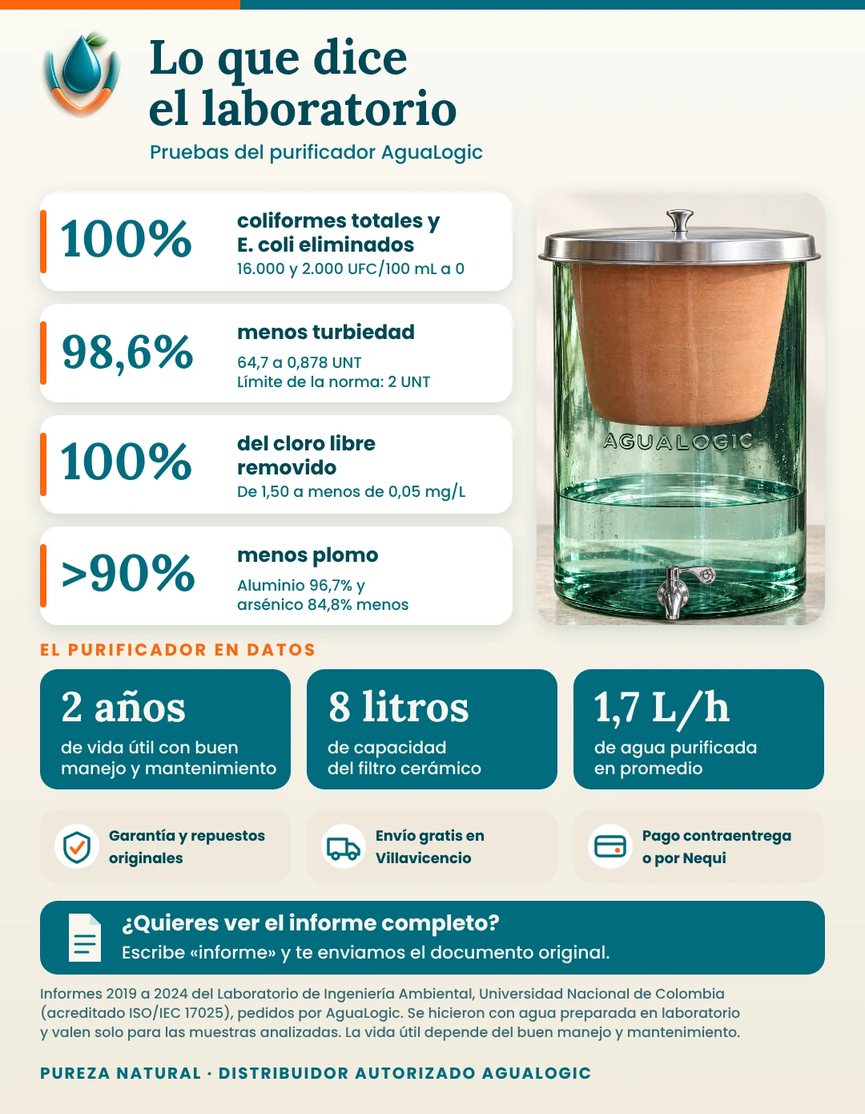
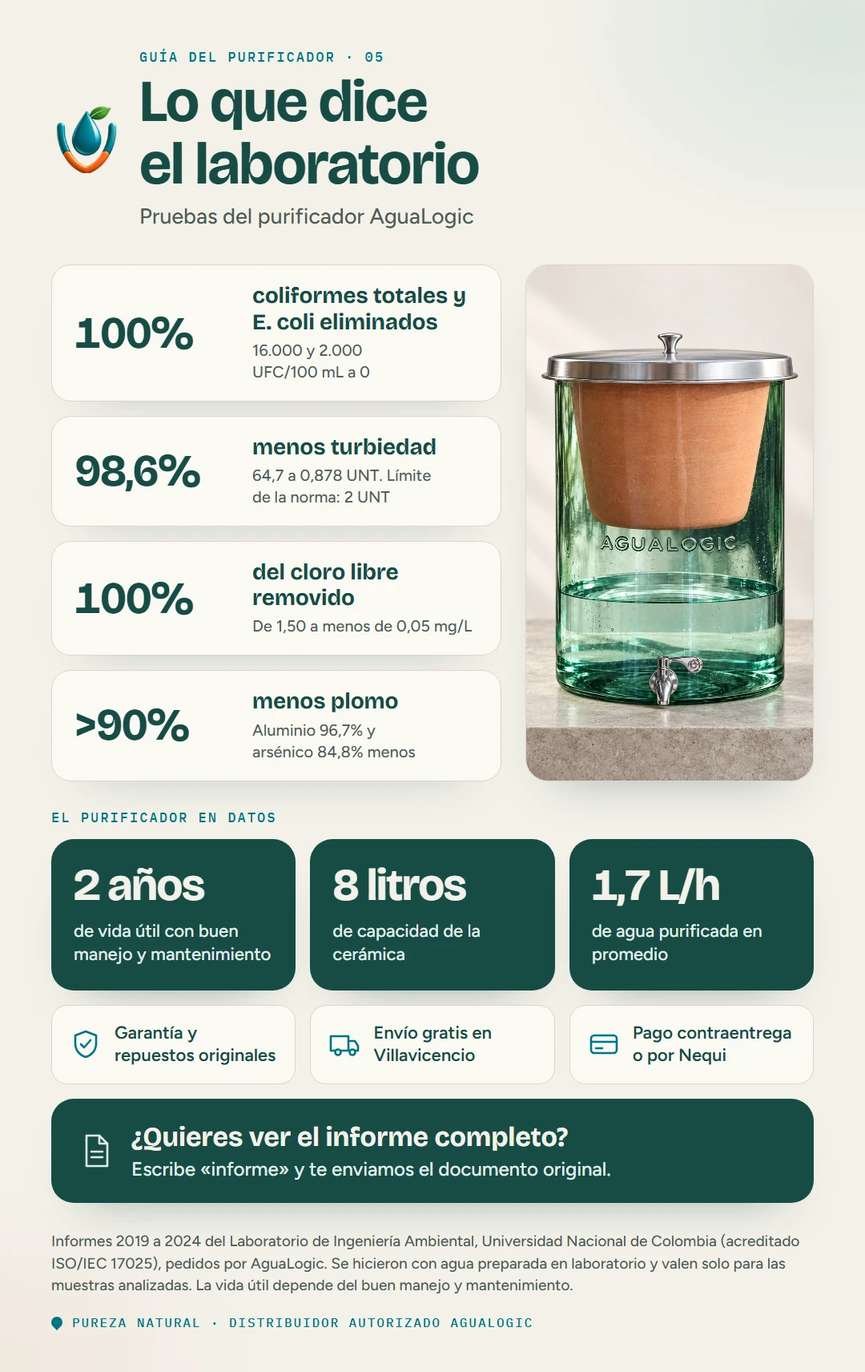
Guía: tarjetas rehechas con la marca y el agua de curación riega las matas
Las 7 tarjetas pasan a Bricolage Grotesque, Figtree e IBM Plex Mono con la
paleta oficial. Se cambia "filtro cerámico" por "cerámica" y en la curación
se explica que el agua de las 4 primeras cargas riega las plantas. Se agregan
los HTML fuente en guia/fuentes/ para poder editarlas.

diff --git a/pureza-natural/guia/index.html b/pureza-natural/guia/index.html
@@ -9,30 +9,31 @@
 <link rel="icon" href="img/logo.webp">
 <link rel="preconnect" href="https://fonts.googleapis.com">
 <link rel="preconnect" href="https://fonts.gstatic.com" crossorigin>
-<link href="https://fonts.googleapis.com/css2?family=Lora:wght@700&family=Poppins:wght@500;700&display=swap" rel="stylesheet">
+<link href="https://fonts.googleapis.com/css2?family=Bricolage+Grotesque:opsz,wght@12..96,700&family=Figtree:wght@500;600&family=IBM+Plex+Mono:wght@500&display=swap" rel="stylesheet">
 <style>
-:root{--teal:#016C7E;--dark:#014856;--orange:#FD660D;--cream:#F8F5ED;--sand:#EFE8DA}
+:root{--canvas:#F4F1E9;--panel:#FBF9F4;--deep:#174C46;--accent:#C66F45;--water:#007585;--text:#24302E;--line:#DDD6C6;--on-deep:#E3EEEA;--display:'Bricolage Grotesque',system-ui,sans-serif;--body:'Figtree',system-ui,sans-serif;--mono:'IBM Plex Mono',ui-monospace,monospace}
 *{box-sizing:border-box;margin:0;padding:0}
 html{scroll-behavior:smooth;scroll-padding-top:76px}
-body{background:linear-gradient(180deg,#FBF9F3,#F1EBDD);color:var(--dark);font-family:'Poppins',system-ui,sans-serif;font-weight:500;line-height:1.5;min-height:100vh}
-.top{height:8px;background:linear-gradient(90deg,var(--orange) 0 28%,var(--teal) 28% 100%)}
-header{max-width:760px;margin:0 auto;padding:22px 16px 10px;display:flex;align-items:center;gap:14px}
-header img{width:64px;height:auto;-webkit-mask-image:radial-gradient(closest-side,#000 72%,transparent 100%);mask-image:radial-gradient(closest-side,#000 72%,transparent 100%)}
-h1{font-family:'Lora',Georgia,serif;font-weight:700;font-size:clamp(24px,6vw,34px);line-height:1.15;color:var(--dark)}
-header p{font-size:14px;color:var(--teal)}
-nav{position:sticky;top:0;z-index:5;background:rgba(251,249,243,.95);backdrop-filter:blur(6px);border-bottom:1px solid rgba(1,72,86,.1)}
+body{background:radial-gradient(520px 380px at 96% 0,rgba(120,185,178,.22),transparent 70%),var(--canvas);background-attachment:fixed;color:var(--text);font-family:var(--body);font-weight:500;line-height:1.6;min-height:100vh;-webkit-font-smoothing:antialiased}
+.top{height:6px;background:linear-gradient(90deg,var(--accent) 0 18%,var(--deep) 18% 100%)}
+header{max-width:760px;margin:0 auto;padding:22px 16px 10px;display:flex;align-items:center;gap:16px}
+header img{width:64px;height:auto}
+h1{font-family:var(--display);font-weight:700;font-size:clamp(28px,6.4vw,40px);line-height:1.05;letter-spacing:-.02em;color:var(--deep)}
+header p{font-family:var(--mono);font-size:12px;letter-spacing:.1em;text-transform:uppercase;color:var(--water);margin-top:6px}
+nav{position:sticky;top:0;z-index:5;background:rgba(244,241,233,.9);backdrop-filter:blur(12px);-webkit-backdrop-filter:blur(12px);border-bottom:1px solid var(--line)}
 nav ul{max-width:760px;margin:0 auto;padding:10px 16px;display:flex;gap:8px;overflow-x:auto;list-style:none;scrollbar-width:none}
 nav ul::-webkit-scrollbar{display:none}
-nav a{white-space:nowrap;text-decoration:none;font-size:14px;font-weight:700;color:var(--teal);border:1.5px solid var(--teal);border-radius:999px;padding:6px 14px}
-nav a:hover,nav a:focus-visible{background:var(--teal);color:var(--cream);outline:none}
+nav a{white-space:nowrap;text-decoration:none;font-size:14px;font-weight:600;color:var(--deep);border:1.5px solid var(--deep);border-radius:999px;padding:7px 16px;min-height:36px;display:inline-flex;align-items:center;transition:background .3s,color .3s}
+nav a:hover,nav a:focus-visible{background:var(--deep);color:var(--canvas);outline:none}
+nav a:focus-visible{outline:3px solid var(--accent);outline-offset:3px}
 main{max-width:760px;margin:0 auto;padding:18px 16px 40px}
-figure{margin:0 0 28px;scroll-margin-top:76px}
-figure img{display:block;width:100%;height:auto;border-radius:18px;box-shadow:0 6px 22px rgba(1,72,86,.16);background:var(--sand)}
-.dl{display:inline-block;margin-top:10px;font-size:13px;font-weight:700;color:var(--teal);text-decoration:underline;text-underline-offset:3px}
+figure{margin:0 0 32px;scroll-margin-top:76px}
+figure img{display:block;width:100%;height:auto;border-radius:24px;box-shadow:0 30px 60px -40px rgba(23,76,70,.35);background:var(--panel);border:1px solid var(--line)}
+.dl{display:inline-block;margin-top:12px;font-size:14px;font-weight:600;color:var(--water);text-decoration:underline;text-underline-offset:3px}
+.dl:focus-visible{outline:3px solid var(--accent);outline-offset:3px;border-radius:4px}
 footer{max-width:760px;margin:0 auto;padding:0 16px 44px;text-align:center}
-.wa{display:inline-block;background:var(--teal);color:var(--cream);text-decoration:none;font-weight:700;border-radius:14px;padding:14px 24px;font-size:16px}
-.wa:hover{background:var(--dark)}
-footer small{display:block;font-size:12px;letter-spacing:.12em;color:var(--teal);font-weight:700}
+footer small{display:block;font-family:var(--mono);font-size:12px;letter-spacing:.12em;color:var(--water);font-weight:500}
+@media (prefers-reduced-motion:reduce){html{scroll-behavior:auto}nav a{transition:none}}
 </style>
 </head>
 <body>
@@ -57,31 +58,31 @@ footer small{display:block;font-size:12px;letter-spacing:.12em;color:var(--teal)
 </nav>
 <main>
   <figure id="funcionamiento">
-    <img src="img/funcionamiento.webp" width="1080" height="1340" alt="Así funciona por gravedad: echas el agua arriba, la gravedad la pasa por la cerámica y sale por la llave. 8 litros, 1,7 L/h en promedio, sin electricidad.">
+    <img src="img/funcionamiento.webp" width="1080" height="1473" alt="Así funciona por gravedad: echas el agua arriba, la gravedad la pasa por la cerámica y sale por la llave. 8 litros, 1,7 L/h en promedio, sin electricidad.">
     <a class="dl" href="img/funcionamiento.webp" download>Descargar imagen</a>
   </figure>
   <figure id="curacion">
-    <img src="img/curacion.webp" width="1080" height="1430" alt="Cómo se cura tu purificador nuevo: llénalo hasta el tope, repite 4 veces y desde la 5.ª carga ya se toma." loading="lazy">
+    <img src="img/curacion.webp" width="1080" height="1805" alt="Cómo se cura tu purificador nuevo: llénalo hasta el tope, repite 4 veces, usa esa agua para regar tus matas y desde la 5.ª carga ya se toma." loading="lazy">
     <a class="dl" href="img/curacion.webp" download>Descargar imagen</a>
   </figure>
   <figure id="mantenimiento">
-    <img src="img/mantenimiento.webp" width="1080" height="1330" alt="Cómo cuidar tu purificador: qué hacer, qué evitar y cuándo cambiar la cerámica. Vida útil de 2 años." loading="lazy">
+    <img src="img/mantenimiento.webp" width="1080" height="1733" alt="Cómo cuidar tu purificador: qué hacer, qué evitar y cuándo cambiar la cerámica. Vida útil de 2 años." loading="lazy">
     <a class="dl" href="img/mantenimiento.webp" download>Descargar imagen</a>
   </figure>
   <figure id="tamanos">
-    <img src="img/tamanos.webp" width="1080" height="1790" alt="Tamaños con medidas: mini peltre 22 por 18 cm, peltre 42 por 32,5 cm, acero inox 46 por 31 cm y vidrio aproximadamente 45 por 34,5 cm." loading="lazy">
+    <img src="img/tamanos.webp" width="1080" height="1965" alt="Tamaños con medidas: mini peltre 22 por 18 cm, peltre 42 por 32,5 cm, acero inox 46 por 31 cm y vidrio aproximadamente 45 por 34,5 cm." loading="lazy">
     <a class="dl" href="img/tamanos.webp" download>Descargar imagen</a>
   </figure>
   <figure id="laboratorio">
-    <img src="img/laboratorio.webp" width="1080" height="1390" alt="Resultados de laboratorio de la Universidad Nacional de Colombia sobre la cerámica AguaLogic, con agua preparada en laboratorio." loading="lazy">
+    <img src="img/laboratorio.webp" width="1080" height="1712" alt="Resultados de laboratorio de la Universidad Nacional de Colombia sobre la cerámica AguaLogic, con agua preparada en laboratorio." loading="lazy">
     <a class="dl" href="img/laboratorio.webp" download>Descargar imagen</a>
   </figure>
   <figure id="garantia">
-    <img src="img/garantia.webp" width="1080" height="1350" alt="Garantía AguaLogic: 4 meses en la cerámica, 4 meses en el recipiente de vidrio y 1 año en el grifo de acero inoxidable." loading="lazy">
+    <img src="img/garantia.webp" width="1080" height="1544" alt="Garantía AguaLogic: 4 meses en la cerámica, 4 meses en el recipiente de vidrio y 1 año en el grifo de acero inoxidable." loading="lazy">
     <a class="dl" href="img/garantia.webp" download>Descargar imagen</a>
   </figure>
   <figure id="envio">
-    <img src="img/envio.webp" width="1080" height="1250" alt="Envío gratis en Villavicencio, $13.000 en otros municipios. Pago contraentrega o por Nequi." loading="lazy">
+    <img src="img/envio.webp" width="1080" height="1472" alt="Envío gratis en Villavicencio, $13.000 en otros municipios. Pago contraentrega o por Nequi." loading="lazy">
     <a class="dl" href="img/envio.webp" download>Descargar imagen</a>
   </figure>
 </main>

diff --git a/pureza-natural/guia/fuentes/card.css b/pureza-natural/guia/fuentes/card.css
@@ -1,0 +1,53 @@
+:root{
+  --canvas:#F4F1E9;--panel:#FBF9F4;--deep:#174C46;--deep-2:#123D38;
+  --accent:#C66F45;--water:#007585;--water-soft:rgba(0,117,133,.14);
+  --text:#24302E;--text-2:#4E5D58;--line:#DDD6C6;--on-deep:#E3EEEA;--on-deep-2:#B9D0C9;
+  --display:'Bricolage Grotesque',system-ui,sans-serif;--body:'Figtree',system-ui,sans-serif;--mono:'IBM Plex Mono',ui-monospace,monospace;
+}
+*{box-sizing:border-box;margin:0;padding:0}
+html,body{background:var(--canvas)}
+body{width:1080px;font-family:var(--body);font-weight:500;color:var(--text);-webkit-font-smoothing:antialiased}
+.card{position:relative;width:1080px;padding:60px 64px 52px;overflow:hidden;
+  background:
+    radial-gradient(520px 380px at 96% 2%,rgba(120,185,178,.22),transparent 70%),
+    radial-gradient(460px 340px at 0% 100%,rgba(198,111,69,.07),transparent 70%),
+    var(--canvas)}
+.card>*{position:relative}
+.head{display:flex;align-items:center;gap:26px;margin-bottom:44px}
+.head img{width:84px;height:auto;flex:none}
+.kicker{font-family:var(--mono);font-weight:500;font-size:17px;letter-spacing:.12em;text-transform:uppercase;color:var(--water)}
+h1{font-family:var(--display);font-weight:700;font-size:74px;line-height:1.05;letter-spacing:-.02em;color:var(--deep);margin-top:6px}
+.sub{font-size:27px;color:var(--text-2);margin-top:10px;font-weight:500}
+h3{font-family:var(--display);font-weight:700;letter-spacing:-.01em;color:var(--deep);line-height:1.1}
+.label{font-family:var(--mono);font-weight:500;font-size:17px;letter-spacing:.12em;text-transform:uppercase;color:var(--water);margin:34px 0 16px}
+.photo{border-radius:28px;overflow:hidden;box-shadow:0 30px 60px -40px rgba(23,76,70,.45);border:1px solid var(--line);background:var(--panel)}
+.photo img{display:block;width:100%;height:100%;object-fit:cover}
+.split{display:grid;grid-template-columns:1fr 400px;gap:30px;align-items:stretch}
+.stack{display:flex;flex-direction:column;gap:18px}
+.steps{display:flex;flex-direction:column;justify-content:space-between;gap:30px}
+.step{display:grid;grid-template-columns:54px 1fr;gap:20px;align-items:start}
+.num{width:54px;height:54px;border-radius:50%;background:var(--deep);color:var(--on-deep);font-family:var(--mono);font-weight:500;font-size:23px;display:grid;place-items:center}
+.step h3{font-size:36px}
+.step p{font-size:24px;line-height:1.4;color:var(--text-2);margin-top:8px}
+.tiles{display:grid;grid-template-columns:repeat(3,1fr);gap:18px}
+.tile{background:var(--deep);color:var(--on-deep);border-radius:28px;padding:30px 28px;box-shadow:0 30px 60px -44px rgba(23,76,70,.6)}
+.tile b{display:block;font-family:var(--display);font-weight:700;font-size:56px;line-height:1;letter-spacing:-.03em;color:var(--canvas);font-variant-numeric:tabular-nums}
+.tile span{display:block;font-size:22px;line-height:1.35;margin-top:14px;color:var(--on-deep)}
+.note{background:var(--panel);border:1px solid var(--line);border-left:5px solid var(--water);border-radius:20px;padding:24px 28px;font-size:25px;line-height:1.4;color:var(--text);font-weight:600;margin-top:18px}
+.note.key{border-left-color:var(--accent)}
+.note.plain{font-weight:500}
+.leaf{display:flex;gap:20px;align-items:flex-start}
+.leaf svg{flex:none;width:44px;height:44px;margin-top:2px}
+.legal{font-size:19px;line-height:1.45;color:var(--text-2);margin-top:34px;font-weight:500}
+.foot{margin-top:22px;font-family:var(--mono);font-weight:500;font-size:16px;letter-spacing:.12em;text-transform:uppercase;color:var(--water);display:flex;align-items:center;gap:12px}
+.foot i{width:14px;height:14px;background:var(--water);border-radius:50% 50% 50% 0;transform:rotate(-45deg);flex:none}
+.statrow{display:grid;grid-template-columns:230px 1fr;gap:22px;align-items:center;background:var(--panel);border:1px solid var(--line);border-radius:24px;padding:22px 28px;box-shadow:0 30px 60px -48px rgba(23,76,70,.4)}
+.statrow .big{font-family:var(--display);font-weight:700;font-size:56px;line-height:1;letter-spacing:-.03em;color:var(--deep);font-variant-numeric:tabular-nums}
+.statrow strong{display:block;font-family:var(--display);font-weight:700;font-size:28px;line-height:1.15;color:var(--deep)}
+.statrow small{text-wrap:balance;display:block;font-size:20px;line-height:1.35;color:var(--text-2);margin-top:6px;font-weight:500}
+.chips{display:grid;grid-template-columns:repeat(3,1fr);gap:18px}
+.chip{display:flex;gap:16px;align-items:center;background:var(--panel);border:1px solid var(--line);border-radius:20px;padding:20px 22px;font-size:22px;line-height:1.3;font-weight:600;color:var(--deep)}
+.chip svg{flex:none;width:40px;height:40px}
+.list{display:flex;flex-direction:column;gap:16px}
+.li{display:grid;grid-template-columns:38px 1fr;gap:14px;align-items:start;font-size:24px;line-height:1.35;font-weight:600;color:var(--text)}
+.li svg{width:34px;height:34px;margin-top:1px}

diff --git a/pureza-natural/guia/fuentes/tamanos.html b/pureza-natural/guia/fuentes/tamanos.html
@@ -1,0 +1,42 @@
+<!doctype html>
+<html lang="es"><head><meta charset="utf-8"><title>Tamaños</title>
+<link rel="preconnect" href="https://fonts.googleapis.com"><link rel="preconnect" href="https://fonts.gstatic.com" crossorigin>
+<link href="https://fonts.googleapis.com/css2?family=Bricolage+Grotesque:opsz,wght@12..96,700&family=Figtree:wght@500;600&family=IBM+Plex+Mono:wght@500&display=swap" rel="stylesheet">
+<link rel="stylesheet" href="card.css">
+<style>
+.grid{display:grid;grid-template-columns:1fr 1fr;gap:22px}
+.model{background:var(--panel);border:1px solid var(--line);border-radius:28px;padding:28px 28px 22px;box-shadow:0 30px 60px -48px rgba(23,76,70,.4)}
+.model h3{font-size:38px}
+.model .spec{font-family:var(--mono);font-weight:500;font-size:16px;letter-spacing:.1em;text-transform:uppercase;color:var(--water);margin-top:8px}
+.fig{display:grid;grid-template-columns:1fr auto;grid-template-rows:380px auto;gap:0 14px;margin-top:14px}
+.pic{display:flex;align-items:flex-end;justify-content:center}
+.pic img{display:block;mix-blend-mode:multiply}
+.vd{display:flex;flex-direction:column;align-items:center;justify-content:center;position:relative;height:100%;width:36px;align-self:end}
+.vd i{position:absolute;left:50%;top:0;bottom:0;width:0;border-left:2px solid var(--deep)}
+.vd i:before,.vd i:after{content:"";position:absolute;left:-7px;width:12px;border-top:2px solid var(--deep)}
+.vd i:before{top:0}.vd i:after{bottom:0}
+.vd b{position:relative;background:var(--panel);padding:8px 0;writing-mode:vertical-rl;transform:rotate(180deg);font-family:var(--display);font-weight:700;font-size:24px;color:var(--deep)}
+.hd{grid-column:1;display:flex;align-items:center;justify-content:center;position:relative;height:50px;margin-top:6px}
+.hd i{position:absolute;left:8%;right:8%;top:50%;border-top:2px solid var(--deep)}
+.hd i:before,.hd i:after{content:"";position:absolute;top:-7px;height:12px;border-left:2px solid var(--deep)}
+.hd i:before{left:0}.hd i:after{right:0}
+.hd b{position:relative;background:var(--panel);padding:0 12px;font-family:var(--display);font-weight:700;font-size:24px;color:var(--deep)}
+</style></head>
+<body><div class="card" id="card">
+  <div class="head"><img src="fotos/logo-mark.png" alt="">
+    <div><div class="kicker">Guía del purificador · 04</div><h1>Elige el tamaño<br>para tu hogar</h1><p class="sub">Medidas reales, a la misma escala</p></div></div>
+  <div class="grid">
+    <div class="model"><h3>Mini peltre</h3><div class="spec">5,5 L · 3,4 kg</div>
+      <div class="fig"><div class="pic"><img src="fotos/m-mini.png" style="height:165px" alt="Mini peltre"></div><div class="vd" style="height:165px"><i></i><b>22 cm</b></div><div class="hd"><i></i><b>18 cm</b></div></div></div>
+    <div class="model"><h3>Peltre</h3><div class="spec">20 L · 7 kg</div>
+      <div class="fig"><div class="pic"><img src="fotos/m-peltre.png" style="height:315px" alt="Peltre"></div><div class="vd" style="height:315px"><i></i><b>42 cm</b></div><div class="hd"><i></i><b>32,5 cm</b></div></div></div>
+    <div class="model"><h3>Acero inox</h3><div class="spec">20 L · 6,5 kg</div>
+      <div class="fig"><div class="pic"><img src="fotos/m-acero.png" style="height:345px" alt="Acero inoxidable"></div><div class="vd" style="height:345px"><i></i><b>46 cm</b></div><div class="hd"><i></i><b>31 cm</b></div></div></div>
+    <div class="model"><h3>Vidrio</h3><div class="spec">20 L · ≈14 kg</div>
+      <div class="fig"><div class="pic"><img src="fotos/m-vidrio.png" style="height:337px" alt="Vidrio"></div><div class="vd" style="height:337px"><i></i><b>45 cm</b></div><div class="hd"><i></i><b>34,5 cm</b></div></div></div>
+  </div>
+  <div class="note plain" style="margin-top:28px">Antes de decidir, mide tu mesón: necesitas el diámetro de la base y el alto libre del modelo (hasta 46 cm) para llenarlo y servir.</div>
+  <div class="note key">El vidrio es soplado a mano: cada pieza es única y pide más cuidado. No lo pongas boca abajo ni uses agua caliente.</div>
+  <p class="legal">Medidas aproximadas según las fichas de AguaLogic (alto y diámetro). Incluyen tapa. Todos incluyen cerámica y grifo de acero inoxidable. La escala de las fotos es aproximada.</p>
+  <div class="foot"><i></i>Pureza Natural · Distribuidor autorizado AguaLogic</div>
+</div></body></html>

diff --git a/pureza-natural/guia/fuentes/laboratorio.html b/pureza-natural/guia/fuentes/laboratorio.html
@@ -1,0 +1,35 @@
+<!doctype html>
+<html lang="es"><head><meta charset="utf-8"><title>Laboratorio</title>
+<link rel="preconnect" href="https://fonts.googleapis.com"><link rel="preconnect" href="https://fonts.gstatic.com" crossorigin>
+<link href="https://fonts.googleapis.com/css2?family=Bricolage+Grotesque:opsz,wght@12..96,700&family=Figtree:wght@500;600&family=IBM+Plex+Mono:wght@500&display=swap" rel="stylesheet">
+<link rel="stylesheet" href="card.css"></head>
+<body><div class="card" id="card">
+  <div class="head"><img src="fotos/logo-mark.png" alt="">
+    <div><div class="kicker">Guía del purificador · 05</div><h1>Lo que dice<br>el laboratorio</h1><p class="sub">Pruebas del purificador AguaLogic</p></div></div>
+  <div class="split" style="grid-template-columns:1fr 360px">
+    <div class="stack">
+      <div class="statrow" style="grid-template-columns:200px 1fr"><div class="big">100%</div><div><strong>coliformes totales y E. coli eliminados</strong><small>16.000 y 2.000 UFC/100 mL a 0</small></div></div>
+      <div class="statrow" style="grid-template-columns:200px 1fr"><div class="big">98,6%</div><div><strong>menos turbiedad</strong><small>64,7 a 0,878 UNT. Límite de la norma: 2 UNT</small></div></div>
+      <div class="statrow" style="grid-template-columns:200px 1fr"><div class="big">100%</div><div><strong>del cloro libre removido</strong><small>De 1,50 a menos de 0,05 mg/L</small></div></div>
+      <div class="statrow" style="grid-template-columns:200px 1fr"><div class="big">&gt;90%</div><div><strong>menos plomo</strong><small>Aluminio 96,7% y arsénico 84,8% menos</small></div></div>
+    </div>
+    <div class="photo"><img src="fotos/armado.jpg" alt="Purificador de vidrio AguaLogic" style="object-position:50% 55%"></div>
+  </div>
+  <div class="label">El purificador en datos</div>
+  <div class="tiles">
+    <div class="tile"><b>2 años</b><span>de vida útil con buen manejo y mantenimiento</span></div>
+    <div class="tile"><b>8 litros</b><span>de capacidad de la cerámica</span></div>
+    <div class="tile"><b>1,7 L/h</b><span>de agua purificada en promedio</span></div>
+  </div>
+  <div class="chips" style="margin-top:18px">
+    <div class="chip"><svg viewBox="0 0 40 40" fill="none" stroke="#007585" stroke-width="2.6" stroke-linecap="round" stroke-linejoin="round"><path d="M20 4l13 5v10c0 9-6 15-13 17C13 34 7 28 7 19V9z"/><path d="M14 20l4 4 8-9"/></svg>Garantía y repuestos originales</div>
+    <div class="chip"><svg viewBox="0 0 40 40" fill="none" stroke="#007585" stroke-width="2.6" stroke-linecap="round" stroke-linejoin="round"><path d="M3 10h22v18H3zM25 16h8l4 6v6H25z"/><circle cx="12" cy="30" r="3.5" fill="#FBF9F4"/><circle cx="30" cy="30" r="3.5" fill="#FBF9F4"/></svg>Envío gratis en Villavicencio</div>
+    <div class="chip"><svg viewBox="0 0 40 40" fill="none" stroke="#007585" stroke-width="2.6" stroke-linecap="round" stroke-linejoin="round"><rect x="4" y="9" width="32" height="22" rx="4"/><path d="M4 17h32M10 25h8"/></svg>Pago contraentrega o por Nequi</div>
+  </div>
+  <div class="tile" style="margin-top:18px;display:flex;gap:22px;align-items:center;padding:28px 32px">
+    <svg width="46" height="46" viewBox="0 0 46 46" fill="none" stroke="#E3EEEA" stroke-width="2.6" stroke-linecap="round" stroke-linejoin="round" style="flex:none"><path d="M12 4h16l10 10v28H12z"/><path d="M28 4v10h10M18 24h14M18 31h14"/></svg>
+    <div><div style="font-family:var(--display);font-weight:700;font-size:34px;color:var(--canvas);line-height:1.15">¿Quieres ver el informe completo?</div><div style="font-size:24px;margin-top:6px">Escribe «informe» y te enviamos el documento original.</div></div>
+  </div>
+  <p class="legal">Informes 2019 a 2024 del Laboratorio de Ingeniería Ambiental, Universidad Nacional de Colombia (acreditado ISO/IEC 17025), pedidos por AguaLogic. Se hicieron con agua preparada en laboratorio y valen solo para las muestras analizadas. La vida útil depende del buen manejo y mantenimiento.</p>
+  <div class="foot"><i></i>Pureza Natural · Distribuidor autorizado AguaLogic</div>
+</div></body></html>

diff --git a/pureza-natural/guia/fuentes/mantenimiento.html b/pureza-natural/guia/fuentes/mantenimiento.html
@@ -1,0 +1,37 @@
+<!doctype html>
+<html lang="es"><head><meta charset="utf-8"><title>Mantenimiento</title>
+<link rel="preconnect" href="https://fonts.googleapis.com"><link rel="preconnect" href="https://fonts.gstatic.com" crossorigin>
+<link href="https://fonts.googleapis.com/css2?family=Bricolage+Grotesque:opsz,wght@12..96,700&family=Figtree:wght@500;600&family=IBM+Plex+Mono:wght@500&display=swap" rel="stylesheet">
+<link rel="stylesheet" href="card.css"></head>
+<body><div class="card" id="card">
+  <div class="head"><img src="fotos/logo-mark.png" alt="">
+    <div><div class="kicker">Guía del purificador · 03</div><h1>Cómo cuidar<br>tu purificador</h1><p class="sub">Mantenimiento y repuesto</p></div></div>
+  <div class="split">
+    <div>
+      <div class="label" style="margin-top:0">Hazlo</div>
+      <div class="list">
+        <div class="li"><svg viewBox="0 0 34 34" fill="none"><circle cx="17" cy="17" r="16" fill="#007585"/><path d="M9.5 17.5l5 5 10-11" stroke="#F4F1E9" stroke-width="3" stroke-linecap="round" stroke-linejoin="round"/></svg><div>Lava la cerámica solo con agua y un cepillo suave nuevo.</div></div>
+        <div class="li"><svg viewBox="0 0 34 34" fill="none"><circle cx="17" cy="17" r="16" fill="#007585"/><path d="M9.5 17.5l5 5 10-11" stroke="#F4F1E9" stroke-width="3" stroke-linecap="round" stroke-linejoin="round"/></svg><div>Lávate las manos antes de llenarlo o limpiarlo.</div></div>
+        <div class="li"><svg viewBox="0 0 34 34" fill="none"><circle cx="17" cy="17" r="16" fill="#007585"/><path d="M9.5 17.5l5 5 10-11" stroke="#F4F1E9" stroke-width="3" stroke-linecap="round" stroke-linejoin="round"/></svg><div>Mantén la cerámica llena: el peso del agua abre los poros.</div></div>
+      </div>
+      <div class="label">Evítalo</div>
+      <div class="list">
+        <div class="li"><svg viewBox="0 0 34 34" fill="none"><circle cx="17" cy="17" r="15" stroke="#174C46" stroke-width="2.4"/><path d="M11 11l12 12M23 11L11 23" stroke="#174C46" stroke-width="2.8" stroke-linecap="round"/></svg><div>Jabón, cloro o químicos.</div></div>
+        <div class="li"><svg viewBox="0 0 34 34" fill="none"><circle cx="17" cy="17" r="15" stroke="#174C46" stroke-width="2.4"/><path d="M11 11l12 12M23 11L11 23" stroke="#174C46" stroke-width="2.8" stroke-linecap="round"/></svg><div>Agua caliente.</div></div>
+        <div class="li"><svg viewBox="0 0 34 34" fill="none"><circle cx="17" cy="17" r="15" stroke="#174C46" stroke-width="2.4"/><path d="M11 11l12 12M23 11L11 23" stroke="#174C46" stroke-width="2.8" stroke-linecap="round"/></svg><div>El recipiente de vidrio boca abajo.</div></div>
+        <div class="li"><svg viewBox="0 0 34 34" fill="none"><circle cx="17" cy="17" r="15" stroke="#174C46" stroke-width="2.4"/><path d="M11 11l12 12M23 11L11 23" stroke="#174C46" stroke-width="2.8" stroke-linecap="round"/></svg><div>Dejar la cerámica seca y al sol.</div></div>
+      </div>
+    </div>
+    <div class="photo" style="height:640px"><img src="fotos/despiece.jpg" alt="Cerámica y recipiente de vidrio del purificador"></div>
+  </div>
+  <div class="note plain" style="margin-top:30px">Si el agua trae tierra, pásala por un paño limpio. Si sabe a cloro, déjala reposar 2 horas antes de echarla.</div>
+  <div class="label">Cambio de la cerámica</div>
+  <div class="tiles">
+    <div class="tile"><b>2 años</b><span>de vida útil de la cerámica</span></div>
+    <div class="tile"><b>$185.000</b><span>repuesto cerámico de 20 litros</span></div>
+    <div class="tile"><b>Señal</b><span>purifica muy lento aunque esté llena y limpia</span></div>
+  </div>
+  <div class="note key">Si aparecen hongos, limpia con agua limpia y un cepillo suave nuevo. Sin jabón ni químicos.</div>
+  <p class="legal">Guías de instalación, mantenimiento y uso de AguaLogic. El repuesto cerámico de 20 litros sirve para las unidades de 20 L. Los minis usan un repuesto distinto.</p>
+  <div class="foot"><i></i>Pureza Natural · Distribuidor autorizado AguaLogic</div>
+</div></body></html>

diff --git a/pureza-natural/guia/fuentes/garantia.html b/pureza-natural/guia/fuentes/garantia.html
@@ -1,0 +1,32 @@
+<!doctype html>
+<html lang="es"><head><meta charset="utf-8"><title>Garantía</title>
+<link rel="preconnect" href="https://fonts.googleapis.com"><link rel="preconnect" href="https://fonts.gstatic.com" crossorigin>
+<link href="https://fonts.googleapis.com/css2?family=Bricolage+Grotesque:opsz,wght@12..96,700&family=Figtree:wght@500;600&family=IBM+Plex+Mono:wght@500&display=swap" rel="stylesheet">
+<link rel="stylesheet" href="card.css">
+<style>.g{background:var(--panel);border:1px solid var(--line);border-radius:24px;padding:24px 28px;box-shadow:0 30px 60px -48px rgba(23,76,70,.4)}
+.g .top{display:flex;align-items:baseline;gap:22px}.g .big{font-family:var(--display);font-weight:700;font-size:54px;line-height:1;letter-spacing:-.03em;color:var(--deep);flex:none;white-space:nowrap}
+.g strong{font-family:var(--display);font-weight:700;font-size:30px;color:var(--deep);line-height:1.1}.g p{font-size:21px;line-height:1.4;color:var(--text-2);margin-top:10px}
+.st{display:flex;gap:16px;align-items:center}.st .num{width:48px;height:48px;font-size:21px;background:var(--canvas);color:var(--deep);flex:none}.st span{font-size:23px;line-height:1.25;font-weight:600;color:var(--on-deep)}
+.tile.s{padding:24px}</style></head>
+<body><div class="card" id="card">
+  <div class="head"><img src="fotos/logo-mark.png" alt="">
+    <div><div class="kicker">Guía del purificador · 06</div><h1>Lo que cubre<br>tu garantía</h1><p class="sub">Garantía AguaLogic en tu purificador de vidrio</p></div></div>
+  <div class="split" style="grid-template-columns:1fr 360px">
+    <div class="stack">
+      <div class="g"><div class="top"><div class="big">4 meses</div><strong>Cerámica</strong></div><p>Rinde menos de 1,5 L/h o el agua sale con sabor, olor o color raro. No cuenta el sabor a arcilla inicial.</p></div>
+      <div class="g"><div class="top"><div class="big">4 meses</div><strong>Recipiente de vidrio</strong></div><p>Fallas de funcionamiento, ruptura espontánea del recipiente o fugas.</p></div>
+      <div class="g"><div class="top"><div class="big">1 año</div><strong>Grifo de acero inoxidable</strong></div><p>Fallas de funcionamiento, goteo o fuga de agua.</p></div>
+    </div>
+    <div class="photo"><img src="fotos/armado.jpg" alt="Purificador de vidrio AguaLogic" style="object-position:50% 55%"></div>
+  </div>
+  <div class="label">Cómo se pide</div>
+  <div class="tiles">
+    <div class="tile s"><div class="st"><div class="num">1</div><span>Escríbenos por este chat</span></div></div>
+    <div class="tile s"><div class="st"><div class="num">2</div><span>Envía fotos y tu comprobante</span></div></div>
+    <div class="tile s"><div class="st"><div class="num">3</div><span>Lo gestionamos con AguaLogic</span></div></div>
+  </div>
+  <div class="note plain" style="margin-top:26px">No cubre rupturas por golpes o mal manejo, ni daños por no seguir las instrucciones de cuidado del producto.</div>
+  <div class="note key">El vidrio es artesanal: las pequeñas imperfecciones de acabado no son motivo de garantía.</div>
+  <p class="legal">Condiciones de garantía de AguaLogic. Pureza Natural, distribuidor autorizado, gestiona los casos ante AguaLogic. La cerámica dura 2 años con buen manejo; la garantía cubre sus primeros 4 meses.</p>
+  <div class="foot"><i></i>Pureza Natural · Distribuidor autorizado AguaLogic</div>
+</div></body></html>

diff --git a/pureza-natural/guia/fuentes/envio.html b/pureza-natural/guia/fuentes/envio.html
@@ -1,0 +1,35 @@
+<!doctype html>
+<html lang="es"><head><meta charset="utf-8"><title>Envío y pago</title>
+<link rel="preconnect" href="https://fonts.googleapis.com"><link rel="preconnect" href="https://fonts.gstatic.com" crossorigin>
+<link href="https://fonts.googleapis.com/css2?family=Bricolage+Grotesque:opsz,wght@12..96,700&family=Figtree:wght@500;600&family=IBM+Plex+Mono:wght@500&display=swap" rel="stylesheet">
+<link rel="stylesheet" href="card.css">
+<style>.e{background:var(--panel);border:1px solid var(--line);border-radius:24px;padding:26px 30px;box-shadow:0 30px 60px -48px rgba(23,76,70,.4)}
+.e .k{font-family:var(--mono);font-weight:500;font-size:16px;letter-spacing:.12em;text-transform:uppercase;color:var(--water)}
+.e .v{font-family:var(--display);font-weight:700;font-size:56px;line-height:1.05;letter-spacing:-.03em;color:var(--deep);margin-top:8px}
+.e p{font-size:22px;color:var(--text-2);margin-top:6px}
+.pay{display:grid;grid-template-columns:54px 1fr;gap:18px;align-items:center;background:var(--deep);color:var(--on-deep);border-radius:24px;padding:22px 26px}
+.pay .num{background:var(--canvas);color:var(--deep)}.pay strong{display:block;font-family:var(--display);font-weight:700;font-size:30px;color:var(--canvas)}.pay span{font-size:21px;line-height:1.35}
+.dot{display:flex;gap:14px;align-items:center}.dot i{width:12px;height:12px;background:var(--water);border-radius:50% 50% 50% 0;transform:rotate(-45deg);flex:none}</style></head>
+<body><div class="card" id="card">
+  <div class="head"><img src="fotos/logo-mark.png" alt="">
+    <div><div class="kicker">Guía del purificador · 07</div><h1>Cómo lo recibes<br>y cómo pagas</h1><p class="sub">Villavicencio y municipios cercanos</p></div></div>
+  <div class="split" style="grid-template-columns:1fr 360px">
+    <div class="stack">
+      <div class="e"><div class="k">Villavicencio</div><div class="v">Envío gratis</div><p>Llega en 5 días hábiles</p></div>
+      <div class="e"><div class="k">Otros municipios</div><div class="v">$13.000</div><p>Llega en 10 días hábiles</p></div>
+      <div class="label" style="margin:12px 0 0">Cómo pagas</div>
+      <div class="pay"><div class="num">1</div><div><strong>Contraentrega</strong><span>Pagas cuando recibes tu pedido.</span></div></div>
+      <div class="pay"><div class="num">2</div><div><strong>Nequi</strong><span>Envías el comprobante con la referencia.</span></div></div>
+    </div>
+    <div class="photo"><img src="fotos/armado.jpg" alt="Purificador de vidrio AguaLogic" style="object-position:50% 55%"></div>
+  </div>
+  <div class="label">Para el envío te pedimos</div>
+  <div class="chips">
+    <div class="chip"><div class="dot"><i></i>Nombre y apellido</div></div>
+    <div class="chip"><div class="dot"><i></i>Dirección de entrega</div></div>
+    <div class="chip"><div class="dot"><i></i>Ciudad y municipio</div></div>
+  </div>
+  <div class="note key" style="margin-top:26px">La garantía va incluida: la gestionamos nosotros ante AguaLogic si llegas a necesitarla.</div>
+  <p class="legal">Los tiempos de entrega son promedio y se cuentan en días hábiles. El envío de $13.000 aplica fuera de Villavicencio. Pureza Natural es distribuidor de AguaLogic.</p>
+  <div class="foot"><i></i>Pureza Natural · Distribuidor autorizado AguaLogic</div>
+</div></body></html>

diff --git a/pureza-natural/guia/fuentes/curacion.html b/pureza-natural/guia/fuentes/curacion.html
@@ -1,0 +1,31 @@
+<!doctype html>
+<html lang="es"><head><meta charset="utf-8"><title>Curación</title>
+<link rel="preconnect" href="https://fonts.googleapis.com"><link rel="preconnect" href="https://fonts.gstatic.com" crossorigin>
+<link href="https://fonts.googleapis.com/css2?family=Bricolage+Grotesque:opsz,wght@12..96,700&family=Figtree:wght@500;600&family=IBM+Plex+Mono:wght@500&display=swap" rel="stylesheet">
+<link rel="stylesheet" href="card.css"></head>
+<body><div class="card" id="card">
+  <div class="head"><img src="fotos/logo-mark.png" alt="">
+    <div><div class="kicker">Guía del purificador · 02</div><h1>Así se cura tu<br>purificador nuevo</h1><p class="sub">5 cargas y el sabor a arcilla se va</p></div></div>
+  <div class="split">
+    <div class="steps">
+      <div class="step"><div class="num">1</div><div><h3>Llénalo hasta el tope</h3><p>Con el agua que quieres purificar. Deja que baje de forma normal.</p></div></div>
+      <div class="step"><div class="num">2</div><div><h3>Repite 4 veces</h3><p>Las primeras cargas pueden saber a arcilla. Es el polvillo del proceso artesanal de la cerámica. Guarda esa agua: es para tus matas.</p></div></div>
+      <div class="step"><div class="num">3</div><div><h3>La 5.ª carga ya se toma</h3><p>Antes, limpia el polvillo que queda en el fondo del recipiente.</p></div></div>
+    </div>
+    <div class="photo" style="height:600px"><img src="fotos/despiece.jpg" alt="Cerámica y recipiente de vidrio del purificador" style="object-position:50% 50%"></div>
+  </div>
+  <div class="note key leaf" style="margin-top:34px">
+    <svg viewBox="0 0 44 44" fill="none" stroke="#174C46" stroke-width="2.4" stroke-linecap="round" stroke-linejoin="round"><path d="M8 36C8 20 18 9 36 8c0 17-9 28-24 28"/><path d="M8 36c6-9 12-15 20-19"/></svg>
+    <div>El agua de curación no se pierde: riega tus matas. Cada gota se aprovecha mientras tu purificador queda listo.</div>
+  </div>
+  <div class="label">En resumen</div>
+  <div class="tiles">
+    <div class="tile"><b>4 cargas</b><span>para curar el purificador nuevo</span></div>
+    <div class="tile"><b>5.ª carga</b><span>ya se puede consumir</span></div>
+    <div class="tile"><b>100%</b><span>del agua se reutiliza: riega tus plantas</span></div>
+  </div>
+  <div class="note plain">Si dejas de usarlo varios días y la cerámica se seca, el sabor a arcilla puede volver. Repite la curación.</div>
+  <div class="note plain">Primeras semanas: mantén la cerámica llena. El peso del agua abre los poros y el purificador trabaja al ritmo normal.</div>
+  <p class="legal">Pasos del instructivo de instalación y mantenimiento de AguaLogic. La cerámica es de fabricación artesanal, por eso suelta un polvillo en las primeras cargas.</p>
+  <div class="foot"><i></i>Pureza Natural · Distribuidor autorizado AguaLogic</div>
+</div></body></html>

diff --git a/pureza-natural/guia/fuentes/funcionamiento.html b/pureza-natural/guia/fuentes/funcionamiento.html
@@ -1,0 +1,26 @@
+<!doctype html>
+<html lang="es"><head><meta charset="utf-8"><title>Funcionamiento</title>
+<link rel="preconnect" href="https://fonts.googleapis.com"><link rel="preconnect" href="https://fonts.gstatic.com" crossorigin>
+<link href="https://fonts.googleapis.com/css2?family=Bricolage+Grotesque:opsz,wght@12..96,700&family=Figtree:wght@500;600&family=IBM+Plex+Mono:wght@500&display=swap" rel="stylesheet">
+<link rel="stylesheet" href="card.css"></head>
+<body><div class="card" id="card">
+  <div class="head"><img src="fotos/logo-mark.png" alt="">
+    <div><div class="kicker">Guía del purificador · 01</div><h1>Así funciona<br>por gravedad</h1><p class="sub">Tres pasos, sin electricidad</p></div></div>
+  <div class="split">
+    <div class="steps">
+      <div class="step"><div class="num">1</div><div><h3>Echas el agua arriba</h3><p>En la cerámica, con agua de tu fuente preferida.</p></div></div>
+      <div class="step"><div class="num">2</div><div><h3>La gravedad hace el resto</h3><p>El agua baja gota a gota por la cerámica. Rinde 1,7 litros por hora en promedio.</p></div></div>
+      <div class="step"><div class="num">3</div><div><h3>Sale por la llave</h3><p>Queda guardada abajo, lista para servir. No necesita electricidad.</p></div></div>
+    </div>
+    <div class="photo" style="height:560px"><img src="fotos/armado.jpg" alt="Purificador de vidrio AguaLogic" style="object-position:50% 55%"></div>
+  </div>
+  <div class="label">En datos</div>
+  <div class="tiles">
+    <div class="tile"><b>8 litros</b><span>de capacidad de la cerámica</span></div>
+    <div class="tile"><b>1,7 L/h</b><span>de agua purificada en promedio</span></div>
+    <div class="tile"><b>Sin luz</b><span>funciona solo con la fuerza de gravedad</span></div>
+  </div>
+  <div class="note key">Antes de tomarla: las primeras 4 cargas saben a arcilla, es la curación del purificador. Desde la 5.ª ya se consume.</div>
+  <p class="legal">Datos de la ficha técnica de AguaLogic. La vida útil y el rendimiento del purificador dependen del buen manejo y de seguir las recomendaciones de instalación y mantenimiento.</p>
+  <div class="foot"><i></i>Pureza Natural · Distribuidor autorizado AguaLogic</div>
+</div></body></html>
